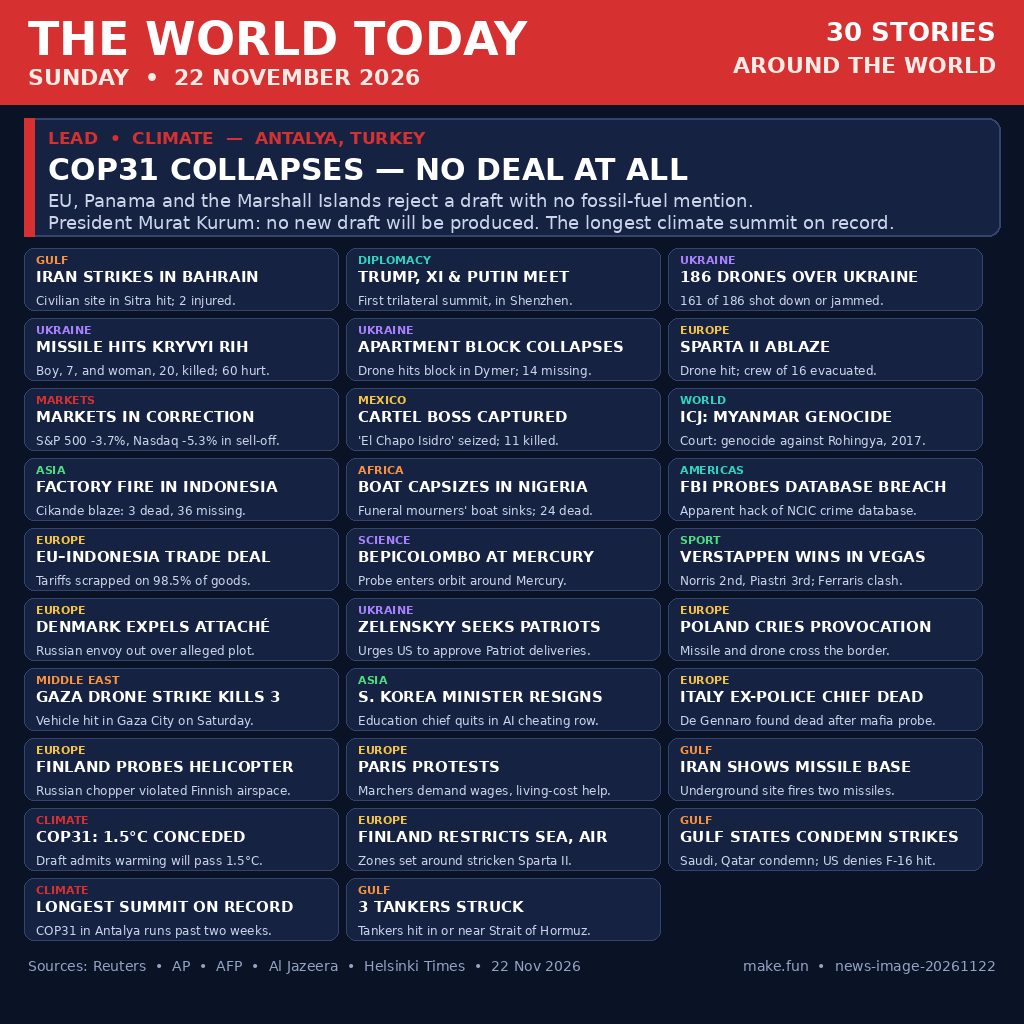
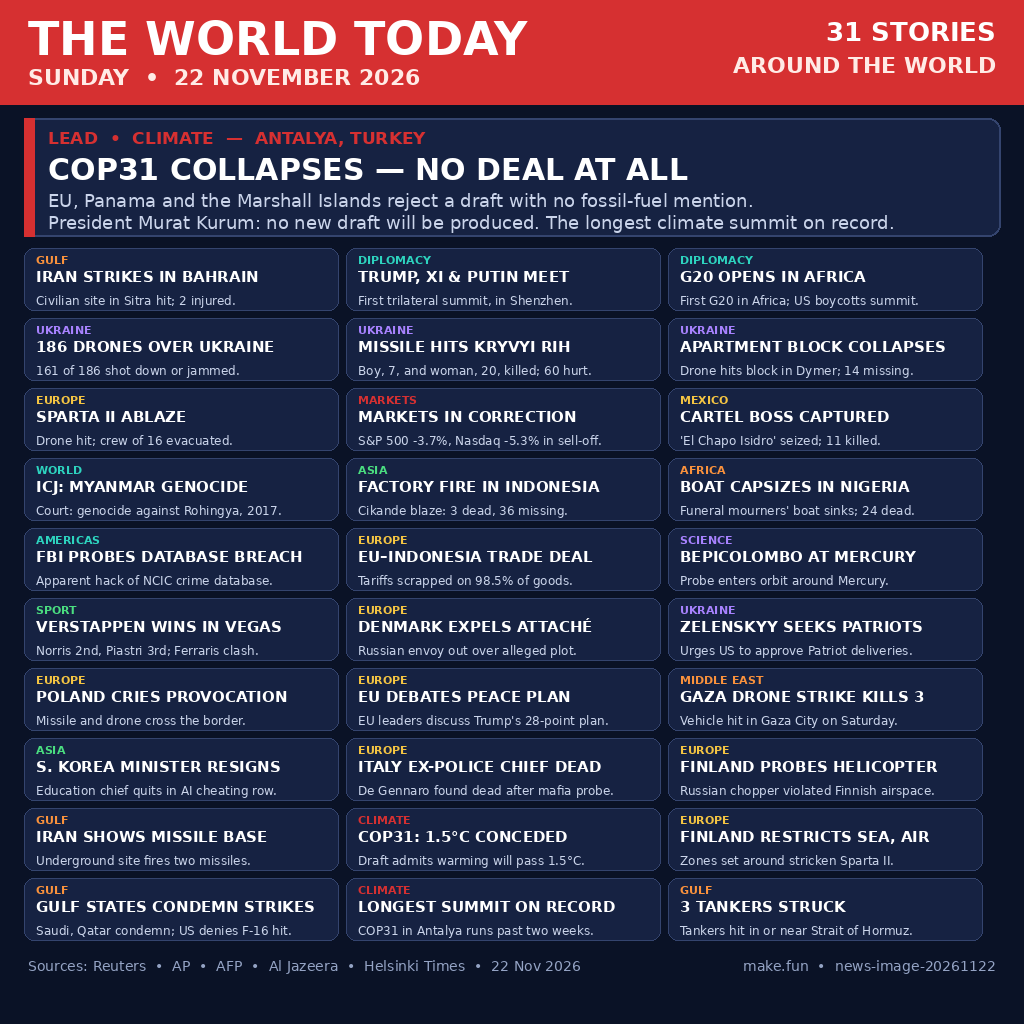
V8: 31-story digest, adds G20 summit

diff --git a/README.md b/README.md
@@ -4,7 +4,7 @@
 [![rank](https://make.fun/badge/news-image-20261122/rendsstwn/makefun-news-image-20261122/rank.svg)](https://make.fun/bounty/news-image-20261122/leaderboard?utm_source=github&utm_medium=readme&utm_campaign=news-image-20261122)
 [![reward](https://make.fun/badge/news-image-20261122/rendsstwn/makefun-news-image-20261122/reward.svg)](https://make.fun/bounty/news-image-20261122?utm_source=github&utm_medium=readme&utm_campaign=news-image-20261122)
 
-Sum up the world's news of Sunday 22 November 2026 in one image. The entry program writes a 1024x1024 PNG digest of 30 stories from that day: COP31 collapses in Antalya, Iran strikes in Bahrain and tankers near the Strait of Hormuz, Trump, Xi and Putin meet in Shenzhen, 186 drones over Ukraine, a missile hits Kryvyi Rih, the Sparta II ablaze in the Gulf of Finland, markets in correction, a cartel boss captured in Mexico, Verstappen wins in Las Vegas, and 21 more stories from around the world. Sources: Reuters, AP, AFP, Al Jazeera, Helsinki Times, 22 Nov 2026.
+Sum up the world's news of Sunday 22 November 2026 in one image. The entry program writes a 1024x1024 PNG digest of 31 stories from that day: COP31 collapses in Antalya, Iran strikes in Bahrain and tankers near the Strait of Hormuz, Trump, Xi and Putin meet in Shenzhen, the G20 opens in Johannesburg, 186 drones over Ukraine, a missile hits Kryvyi Rih, the Sparta II ablaze in the Gulf of Finland, markets in correction, a cartel boss captured in Mexico, and 22 more stories from around the world. Sources: Reuters, AP, AFP, Al Jazeera, Helsinki Times, 22 Nov 2026.
 
 ## Run it
 
